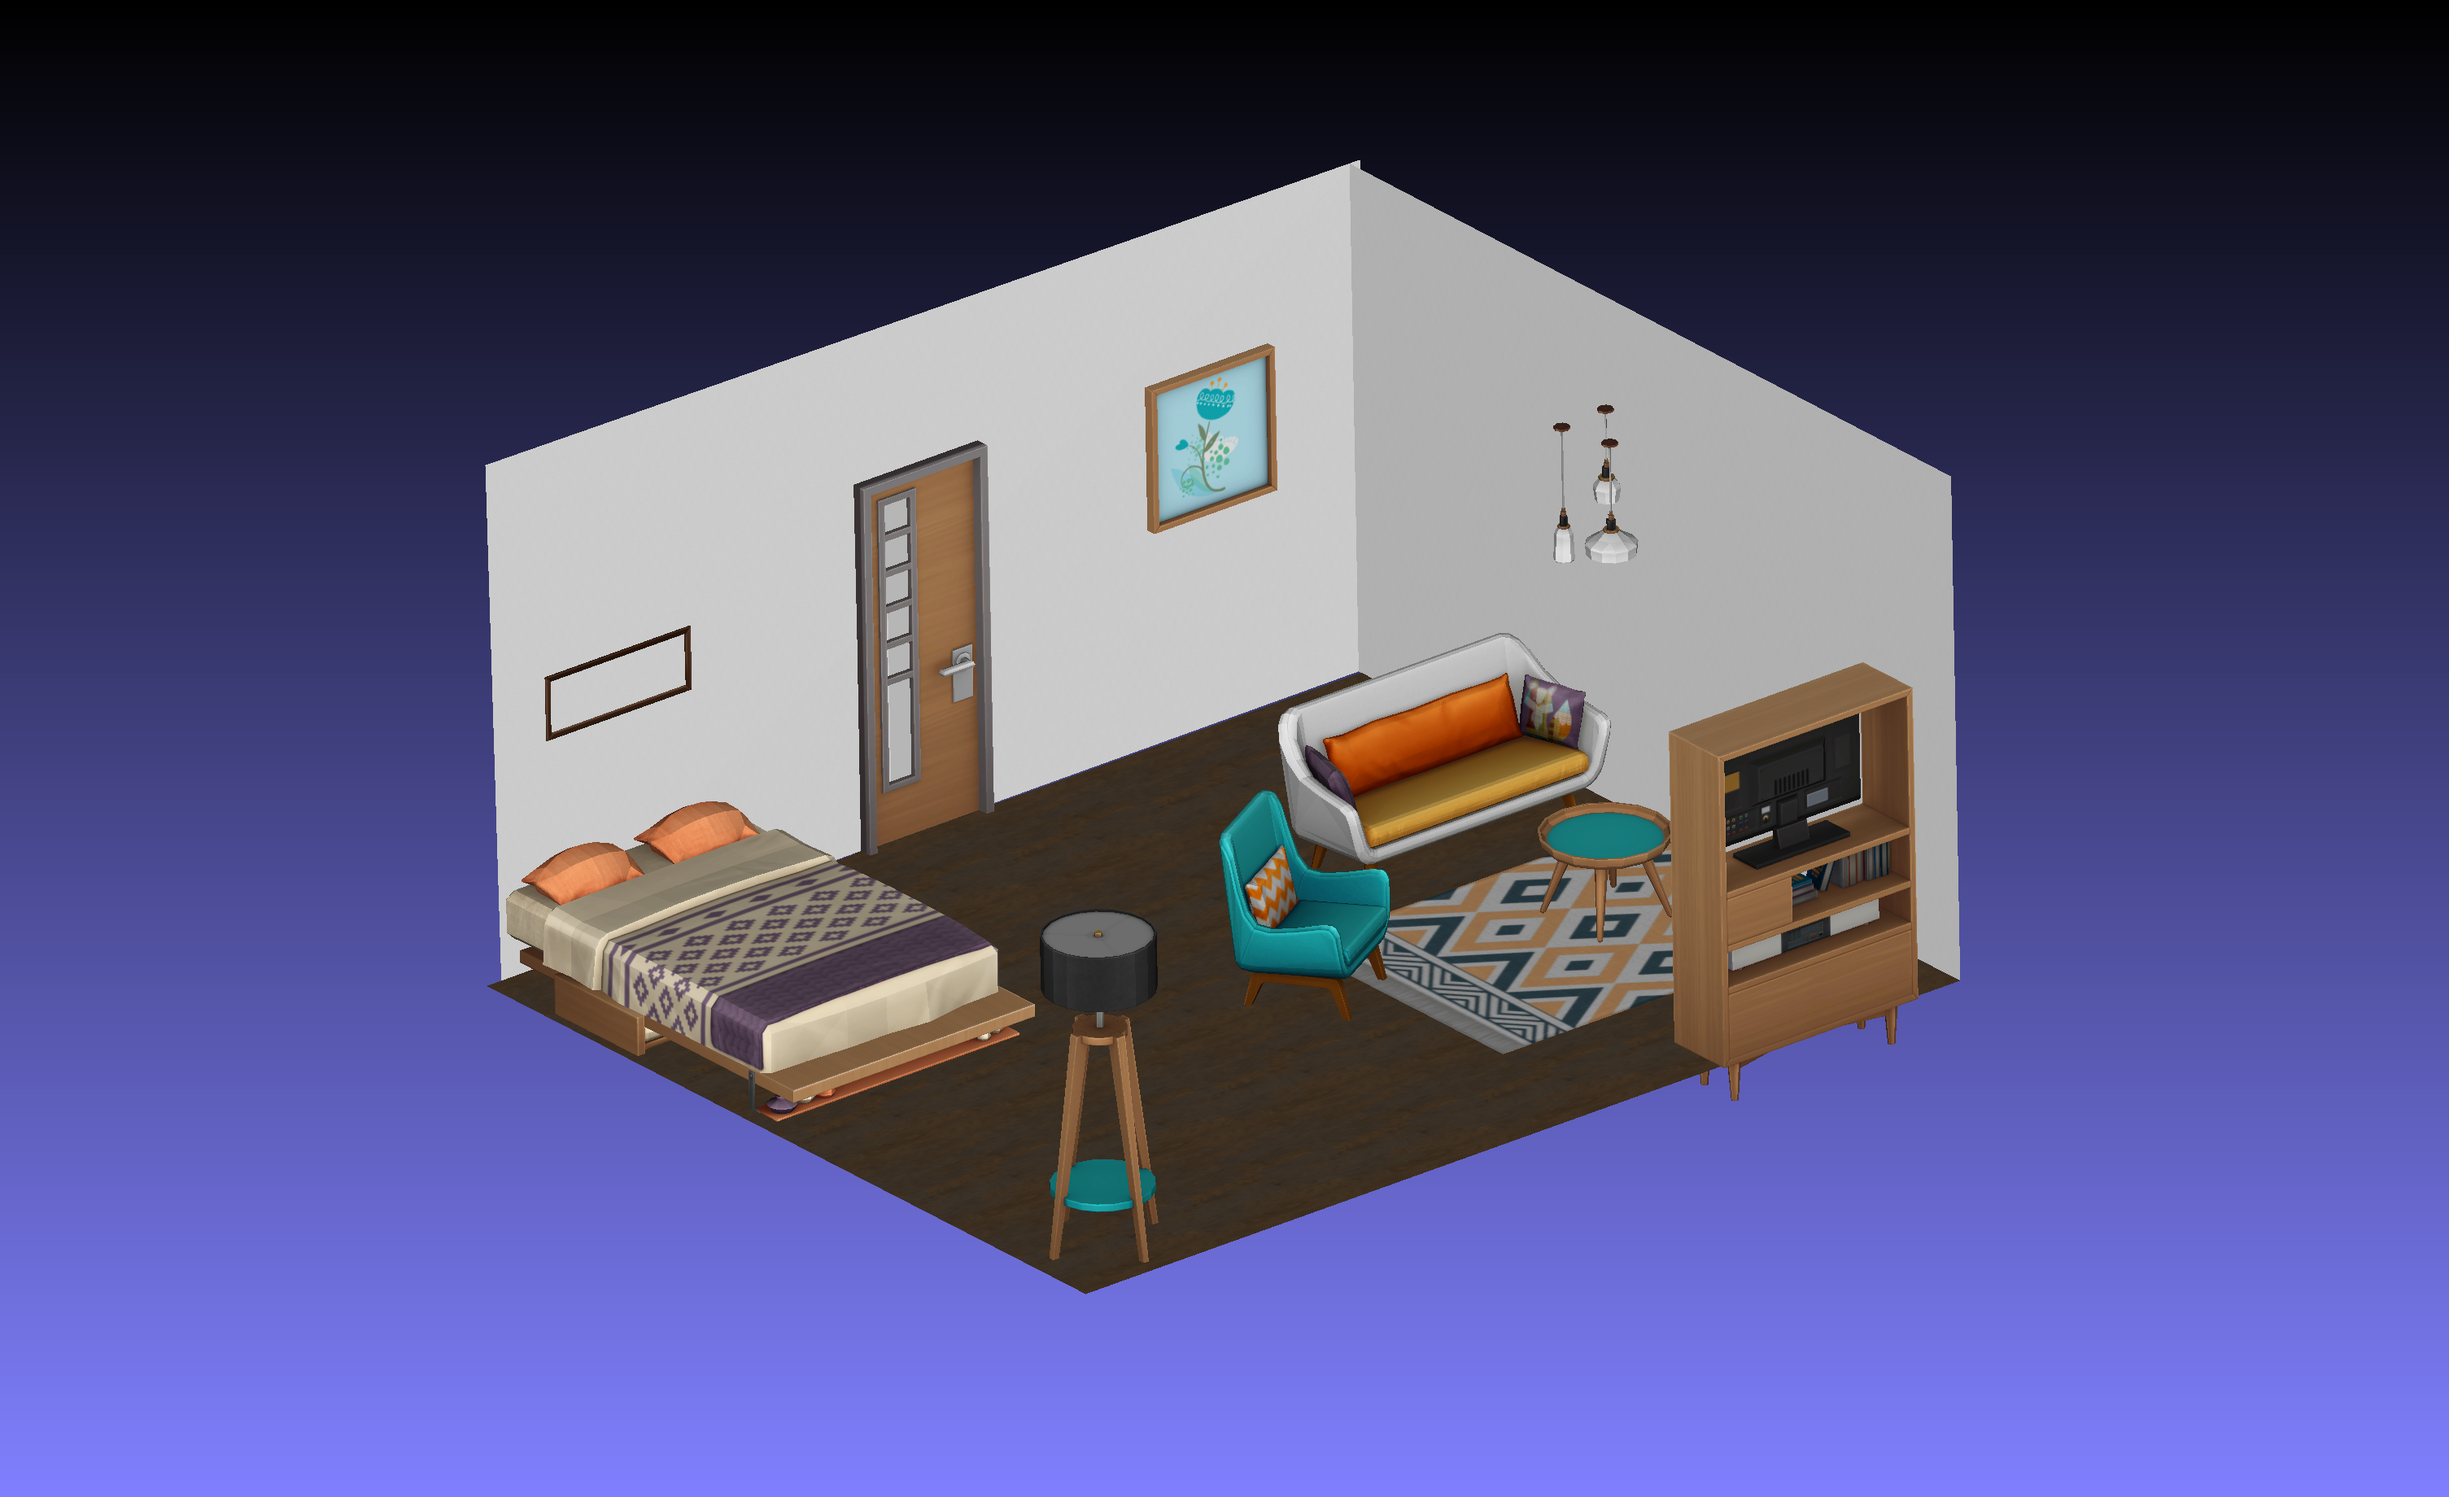
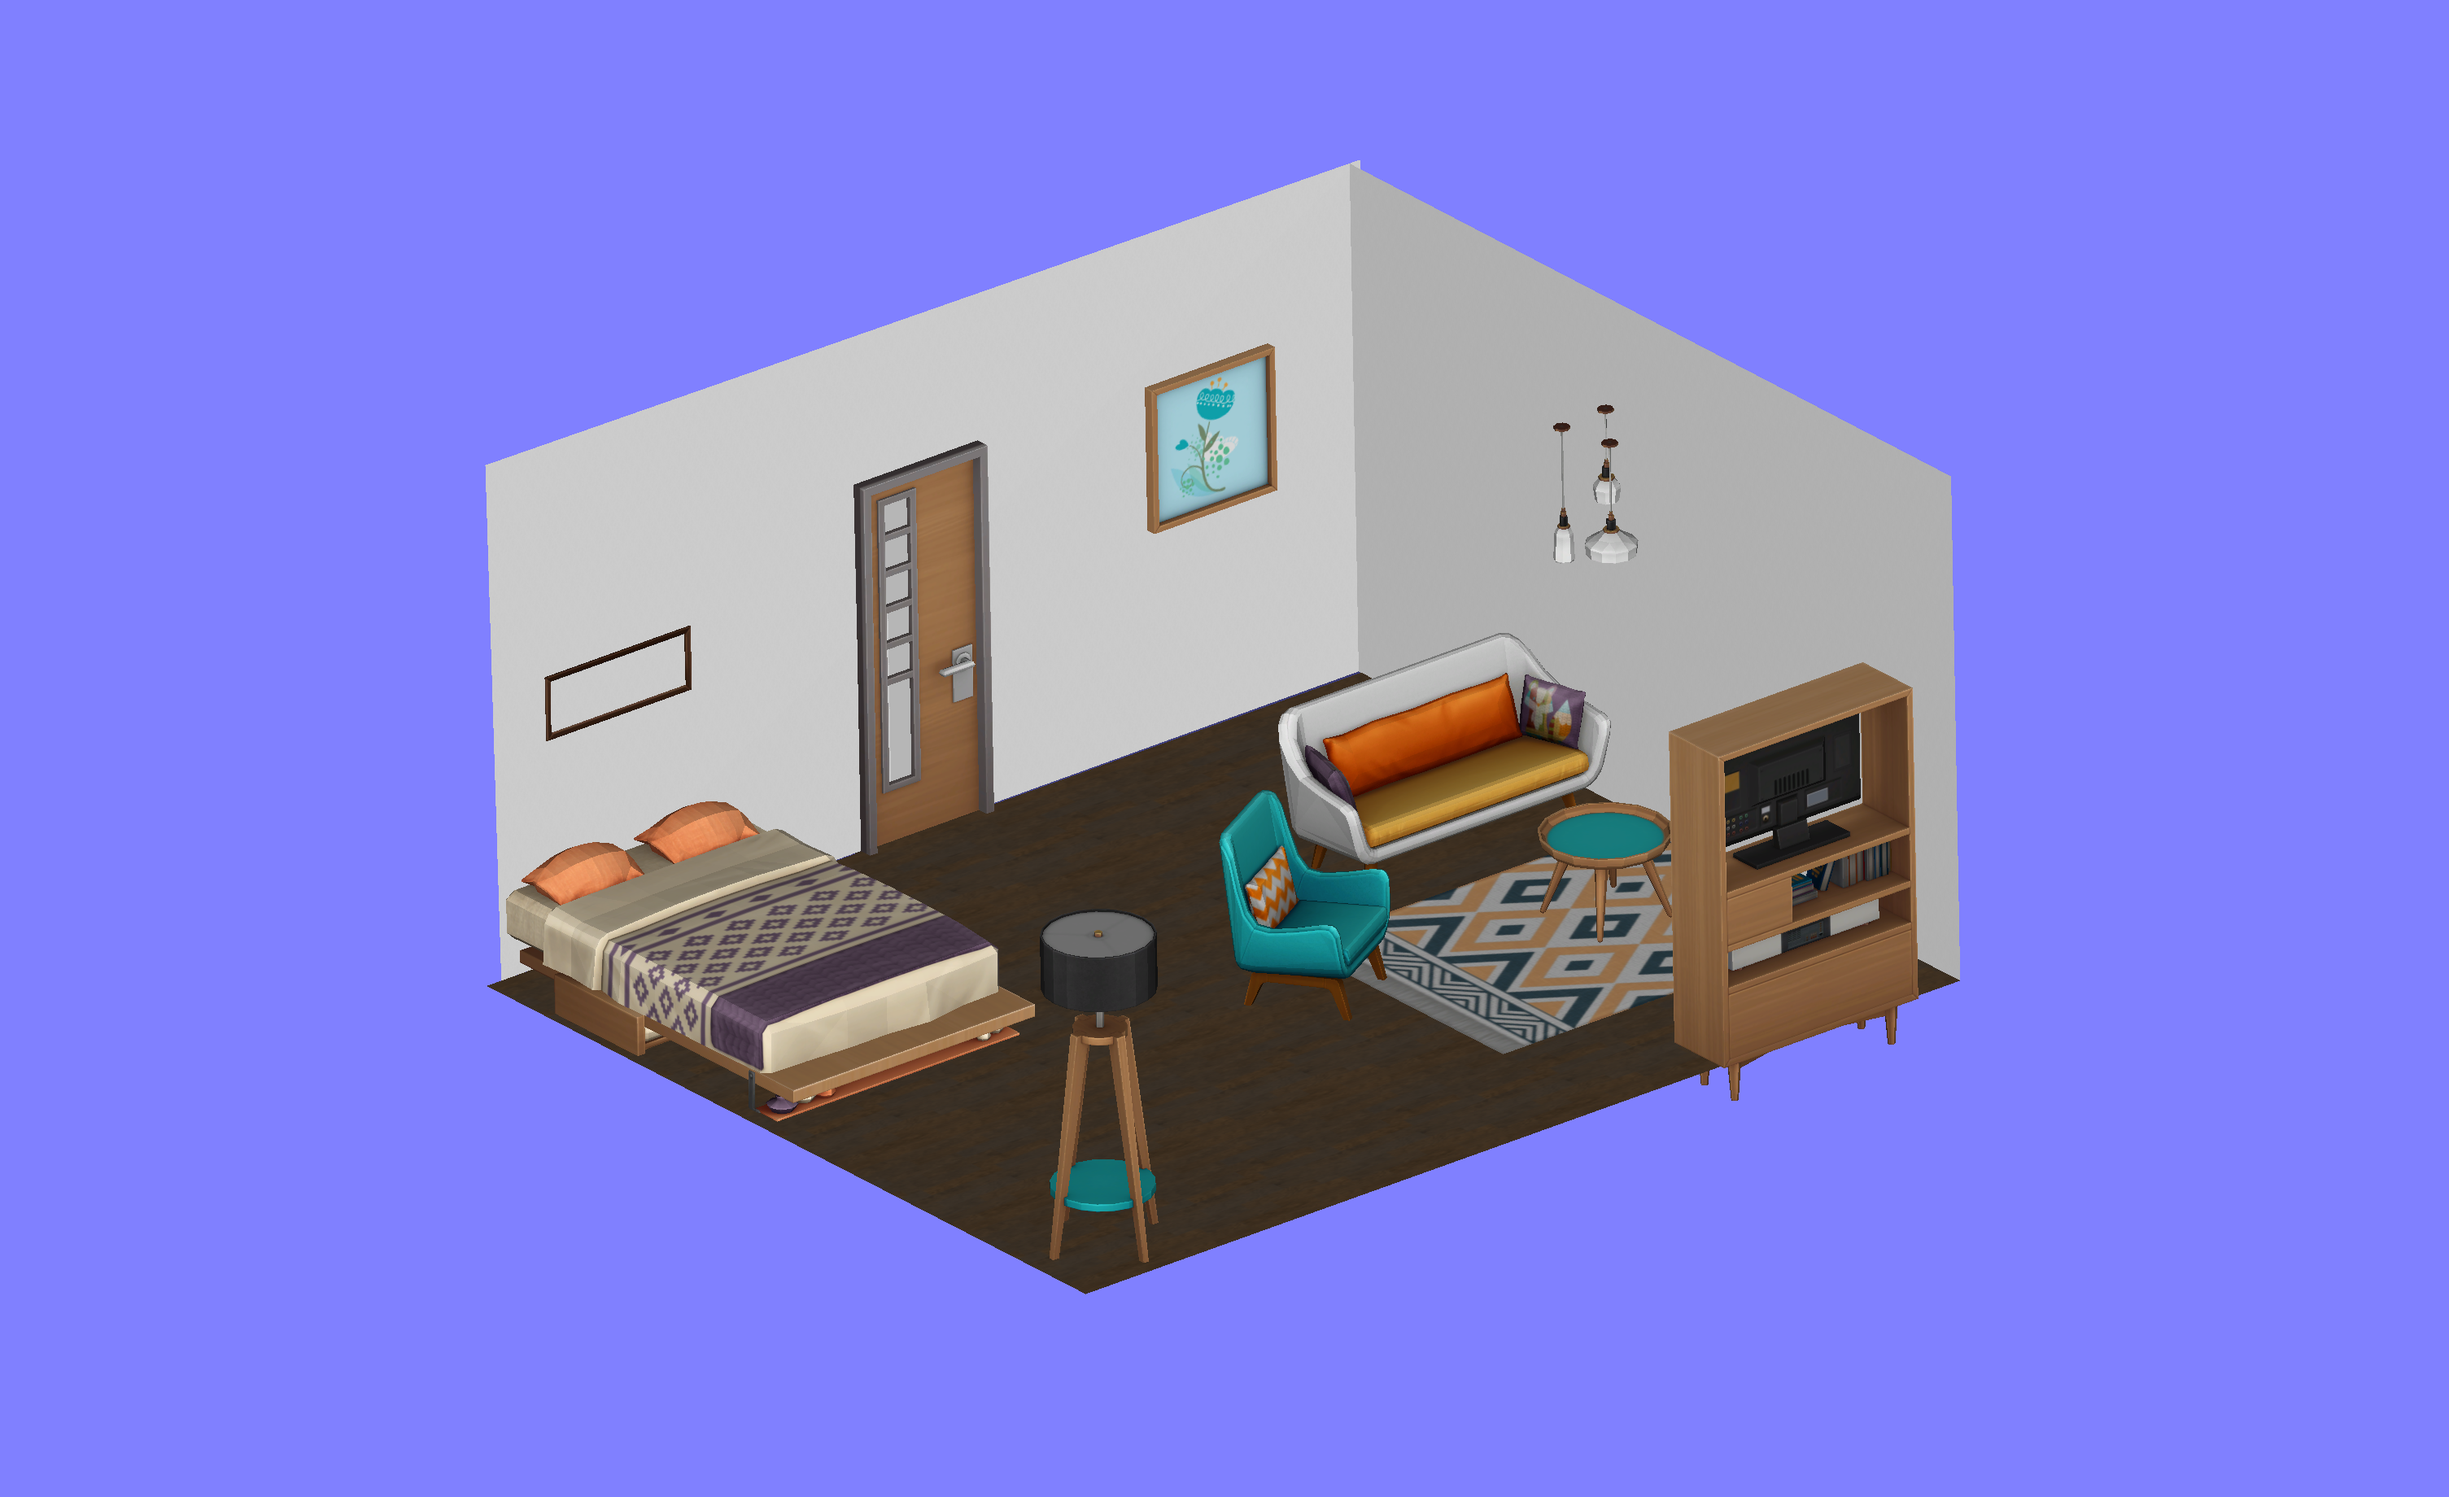
Bilder Hintergrund geändert

diff --git a/chapters/6_evaluation.tex b/chapters/6_evaluation.tex
@@ -516,11 +516,11 @@ Die Rekonstruktionen von NeuralRecon zeigten deutliche Lücken über alle Testsz
 \begin{figure}[H]
     \centering
     \begin{subfigure}{0.49\linewidth}
-        \includegraphics[width=\linewidth]{images/EvaluationScreenshots/room00/gt00.png}
+        \includegraphics[width=\linewidth]{images/ReconsTransparent/room00/gt00.png}
         \caption{Ground Truth}
     \end{subfigure}
     \begin{subfigure}{0.49\linewidth}
-        \includegraphics[width=\linewidth]{images/EvaluationScreenshots/room00/neucon00.png}
+        \includegraphics[width=\linewidth]{images/ReconsTransparent/room00/neucon00.png}
         \caption{NeuralRecon Rekonstruktion}
     \end{subfigure}
     \caption{Lückenhafte Rekonstruktion von Szene V1 durch NeuralRecon. Schräge Flächen werden nicht erfasst, während horizontale und vertikale Strukturen teilweise rekonstruiert werden.}
@@ -530,11 +530,11 @@ Die Rekonstruktionen von NeuralRecon zeigten deutliche Lücken über alle Testsz
 \begin{figure}[H]
     \centering
     \begin{subfigure}{0.49\linewidth}
-        \includegraphics[width=\linewidth]{images/EvaluationScreenshots/room01/gt00.png}
+        \includegraphics[width=\linewidth]{images/ReconsTransparent/room01/gt00.png}
         \caption{Ground Truth Detail}
     \end{subfigure}
     \begin{subfigure}{0.49\linewidth}
-        \includegraphics[width=\linewidth]{images/EvaluationScreenshots/room01/neucon00.png}
+        \includegraphics[width=\linewidth]{images/ReconsTransparent/room01/neucon00.png}
         \caption{NeuralRecon Detail}
     \end{subfigure}
     \caption{Detailverlust bei NeuralRecon. Objekte wie die Stehlampe oder der TV-Schrank in Szene V2 gehen in der Rekonstruktion größtenteils verloren.}
@@ -548,11 +548,11 @@ VisFusion überzeugte mit einer spürbar höheren Vollständigkeit als NeuralRec
 \begin{figure}[H]
     \centering
     \begin{subfigure}{0.49\linewidth}
-        \includegraphics[width=\linewidth]{images/EvaluationScreenshots/room00/neucon00.png}
+        \includegraphics[width=\linewidth]{images/ReconsTransparent/room00/neucon00.png}
         \caption{Neural Recon}
     \end{subfigure}
     \begin{subfigure}{0.49\linewidth}
-        \includegraphics[width=\linewidth]{images/EvaluationScreenshots/room00/visfusion00.png}
+        \includegraphics[width=\linewidth]{images/ReconsTransparent/room00/visfusion00.png}
         \caption{VisFusion}
     \end{subfigure}
     \caption{Vergleich zwischen NeuralRecon und VisFusion in Szene V1. VisFusion rekonstruiert die schrägen Flächen erfolgreich und zeigt eine deutlich höhere Vollständigkeit.}
@@ -562,11 +562,11 @@ VisFusion überzeugte mit einer spürbar höheren Vollständigkeit als NeuralRec
 \begin{figure}[H]
     \centering
     \begin{subfigure}{0.49\linewidth}
-        \includegraphics[width=\linewidth]{images/EvaluationScreenshots/room01/visfusion00.png}
+        \includegraphics[width=\linewidth]{images/ReconsTransparent/room01/visfusion00.png}
         \caption{Szene V2}
     \end{subfigure}
     \begin{subfigure}{0.49\linewidth}
-        \includegraphics[width=\linewidth]{images/EvaluationScreenshots/room02/visfusion.png}
+        \includegraphics[width=\linewidth]{images/ReconsTransparent/room02/visfusion00.png}
         \caption{Szene V3}
     \end{subfigure}
     \caption{VisFusion Rekonstruktionen der Szenen V2 und V3. Die Performance bleibt auch bei zunehmender Komplexität stabil. Objekte wie die Stehlampe oder der TV-Schrank werden detaillierter erfasst.}
@@ -580,11 +580,11 @@ SLAM3R verfolgte einen grundlegend anderen Ansatz und erzeugte dichte, farbige P
 \begin{figure}[H]
     \centering
     \begin{subfigure}{0.49\linewidth}
-        \includegraphics[width=\linewidth]{images/EvaluationScreenshots/room00/gt00.png}
+        \includegraphics[width=\linewidth]{images/ReconsTransparent/room00/gt00.png}
         \caption{SLAM3R Rekonstruktion}
     \end{subfigure}
     \begin{subfigure}{0.49\linewidth}
-        \includegraphics[width=\linewidth]{images/EvaluationScreenshots/room00/slam3r00.png}
+        \includegraphics[width=\linewidth]{images/ReconsTransparent/room00/slam3r00.png}
         \caption{SLAM3R Rekonstruktion}
     \end{subfigure}
     \caption{SLAM3R Rekonstruktion von Szene V1 mit erkennbaren Drift-Problemen. Trotz Versätzen bleiben lokale Details und Farbinformation gut erhalten.}
@@ -594,15 +594,15 @@ SLAM3R verfolgte einen grundlegend anderen Ansatz und erzeugte dichte, farbige P
 \begin{figure}[H]
     \centering
     \begin{subfigure}{0.32\linewidth}
-        \includegraphics[width=\linewidth]{images/EvaluationScreenshots/room00/slam3r00.png}
+        \includegraphics[width=\linewidth]{images/ReconsTransparent/room00/slam3r00.png}
         \caption{Szene V1}
     \end{subfigure}
     \begin{subfigure}{0.32\linewidth}
-        \includegraphics[width=\linewidth]{images/EvaluationScreenshots/room01/slam3r00.png}
+        \includegraphics[width=\linewidth]{images/ReconsTransparent/room01/slam3r00.png}
         \caption{Szene V2}
     \end{subfigure}
     \begin{subfigure}{0.32\linewidth}
-        \includegraphics[width=\linewidth]{images/EvaluationScreenshots/room02/slam3r.png}
+        \includegraphics[width=\linewidth]{images/ReconsTransparent/room02/slam3r00.png}
         \caption{Szene V3}
     \end{subfigure}
     \caption{SLAM3R Performance-Vergleich über Szenen: V1, V2 und V3. Deutlich erkennbar ist die zunehmende Fragmentierung und der Verlust globaler Kohärenz mit steigender Komplexität.}
@@ -617,11 +617,11 @@ MASt3R-SLAM erzeugte ebenfalls Punktwolken und zeigte über alle Szenen hinweg k
 \begin{figure}[H]
     \centering
     \begin{subfigure}{0.49\linewidth}
-        \includegraphics[width=\linewidth]{images/EvaluationScreenshots/room00/gt00.png}
+        \includegraphics[width=\linewidth]{images/ReconsTransparent/room00/gt00.png}
         \caption{Ground Truth}
     \end{subfigure}
     \begin{subfigure}{0.49\linewidth}
-        \includegraphics[width=\linewidth]{images/EvaluationScreenshots/room00/mast3r0.png}
+        \includegraphics[width=\linewidth]{images/ReconsTransparent/room00/mast3r0.png}
         \caption{MASt3R-SLAM Rekonstruktion}
     \end{subfigure}
     \caption{MASt3R-SLAM Rekonstruktion von Szene V1 mit ausgeprägten Drift-Problemen. Die Versätze und frei schwebenden Punkte sind hier deutlich stärker als bei SLAM3R in derselben Szene.}
@@ -631,15 +631,15 @@ MASt3R-SLAM erzeugte ebenfalls Punktwolken und zeigte über alle Szenen hinweg k
 \begin{figure}[H]
     \centering
     \begin{subfigure}{0.32\linewidth}
-        \includegraphics[width=\linewidth]{images/EvaluationScreenshots/room00/mast3r0.png}
+        \includegraphics[width=\linewidth]{images/ReconsTransparent/room00/mast3r0.png}
         \caption{Szene V1}
     \end{subfigure}
     \begin{subfigure}{0.32\linewidth}
-        \includegraphics[width=\linewidth]{images/EvaluationScreenshots/room01/mast3r00.png}
+        \includegraphics[width=\linewidth]{images/ReconsTransparent/room01/mast3r00.png}
         \caption{Szene V2}
     \end{subfigure}
     \begin{subfigure}{0.32\linewidth}
-        \includegraphics[width=\linewidth]{images/EvaluationScreenshots/room02/mast3r.png}
+        \includegraphics[width=\linewidth]{images/ReconsTransparent/room02/mast3r00.png}
         \caption{Szene V3}
     \end{subfigure}
     \caption{MASt3R-SLAM Performance-Vergleich über Szenen: V1 (links), V2 (Mitte), V3 (rechts). Im Gegensatz zu SLAM3R bleibt die Konsistenz über die Szenen hinweg relativ stabil.}
@@ -683,8 +683,8 @@ Die Oberfläche wies weiterhin partielle Lücken auf, es war jedoch eine Erfassu
 
 \begin{figure}[H]
     \centering
-    \includegraphics[width=0.49\linewidth]{images/room03_neucon00.png}
-    \includegraphics[width=0.49\linewidth]{images/room03_visfusion00.png}
+    \includegraphics[width=0.49\linewidth]{images/ReconsTransparent/room03/neucon00.png}
+    \includegraphics[width=0.49\linewidth]{images/ReconsTransparent/room03/visfusion00.png}
     \caption{Rekonstruktionen der volumetrischen Verfahren in Szene R1. Links: NeuralRecon 
     mit erheblichen Diskontinuitäten. Rechts: VisFusion mit marginal verbesserter Vollständigkeit.}
     \label{fig:real_volumetric}
@@ -698,8 +698,8 @@ MASt3R-SLAM erzielte die höchste Rekonstruktionsqualität in den realen Szenen.
 
 \begin{figure}[H]
     \centering
-    \includegraphics[width=0.49\linewidth]{images/room04_slam3r00.png}
-    \includegraphics[width=0.49\linewidth]{images/room04_mast3r00.png}
+    \includegraphics[width=0.49\linewidth]{images/ReconsTransparent/room04/slam3r00.png}
+    \includegraphics[width=0.49\linewidth]{images/ReconsTransparent/room04/mast3r00.png}
     \caption{Rekonstruktionen der SLAM-basierten Verfahren in Szene R2. Obwohl beide Modelle einen hohen Detailgrad haben, liegt MASt3R-SLAM vorne (Esstisch, Sofa)}
     \label{fig:real_slam}
 \end{figure}

diff --git a/chapters/5_implementierung.tex b/chapters/5_implementierung.tex
@@ -229,7 +229,12 @@ Die Darstellung ist derzeit auf 100.000 Punkte limitiert, da die Meta Quest 3 be
 
 \begin{figure}[H]
     \centering
-    \includegraphics[width=\textwidth]{images/mesh_pointcloud_vis.png}
+    \begin{subfigure}{0.49\textwidth}
+        \includegraphics[width=\linewidth]{images/ReconsTransparent/room02/visfusion00.png}
+    \end{subfigure}
+    \begin{subfigure}{0.49\textwidth}
+        \includegraphics[width=\linewidth]{images/ReconsTransparent/room02/mast3r00.png}
+    \end{subfigure}
     \caption{Visualisierung einer Mesh-Rekonstruktion (VisFusion, links) und einer Punktwolken-Rekonstruktion (MASt3Rrechts)}
 \end{figure}
 
